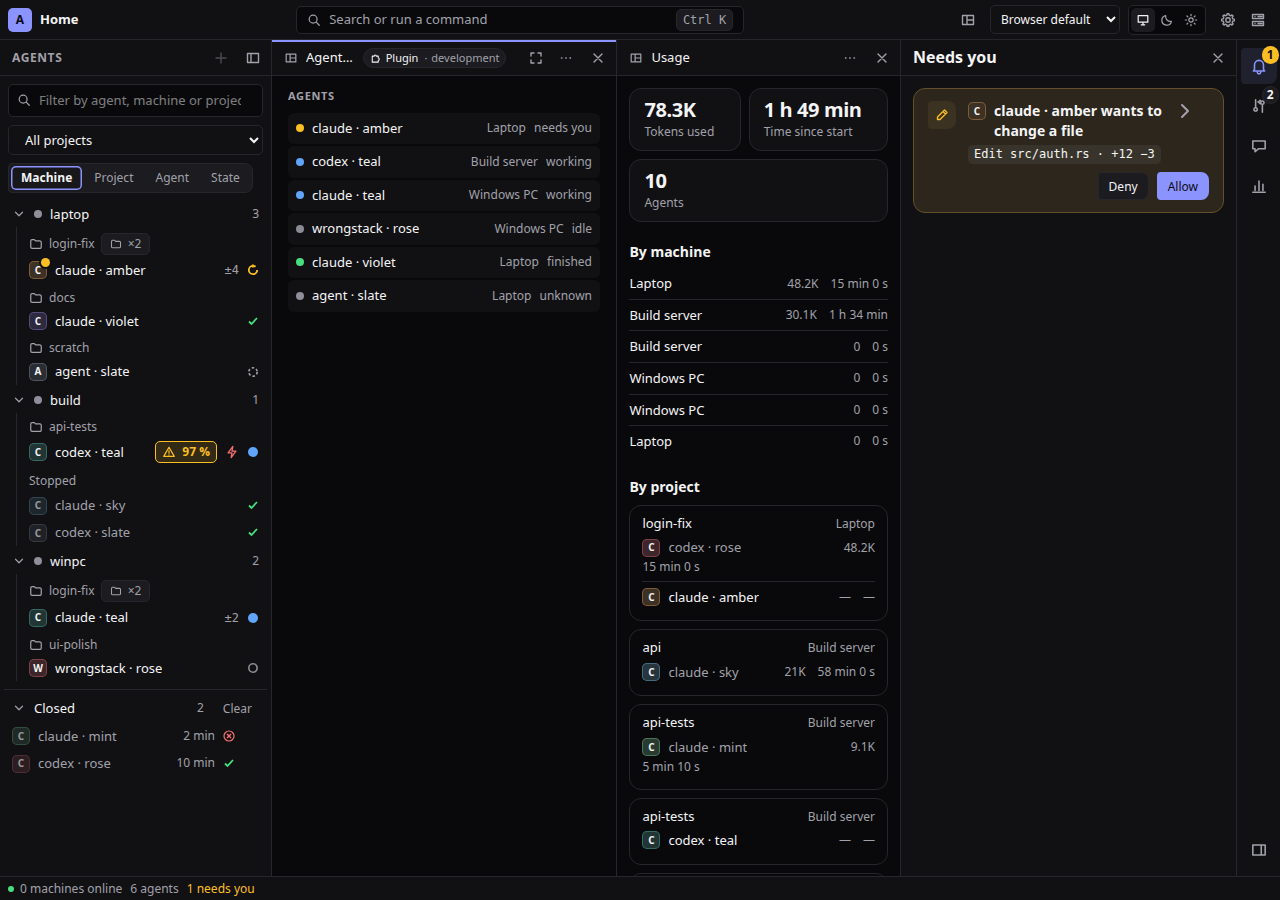
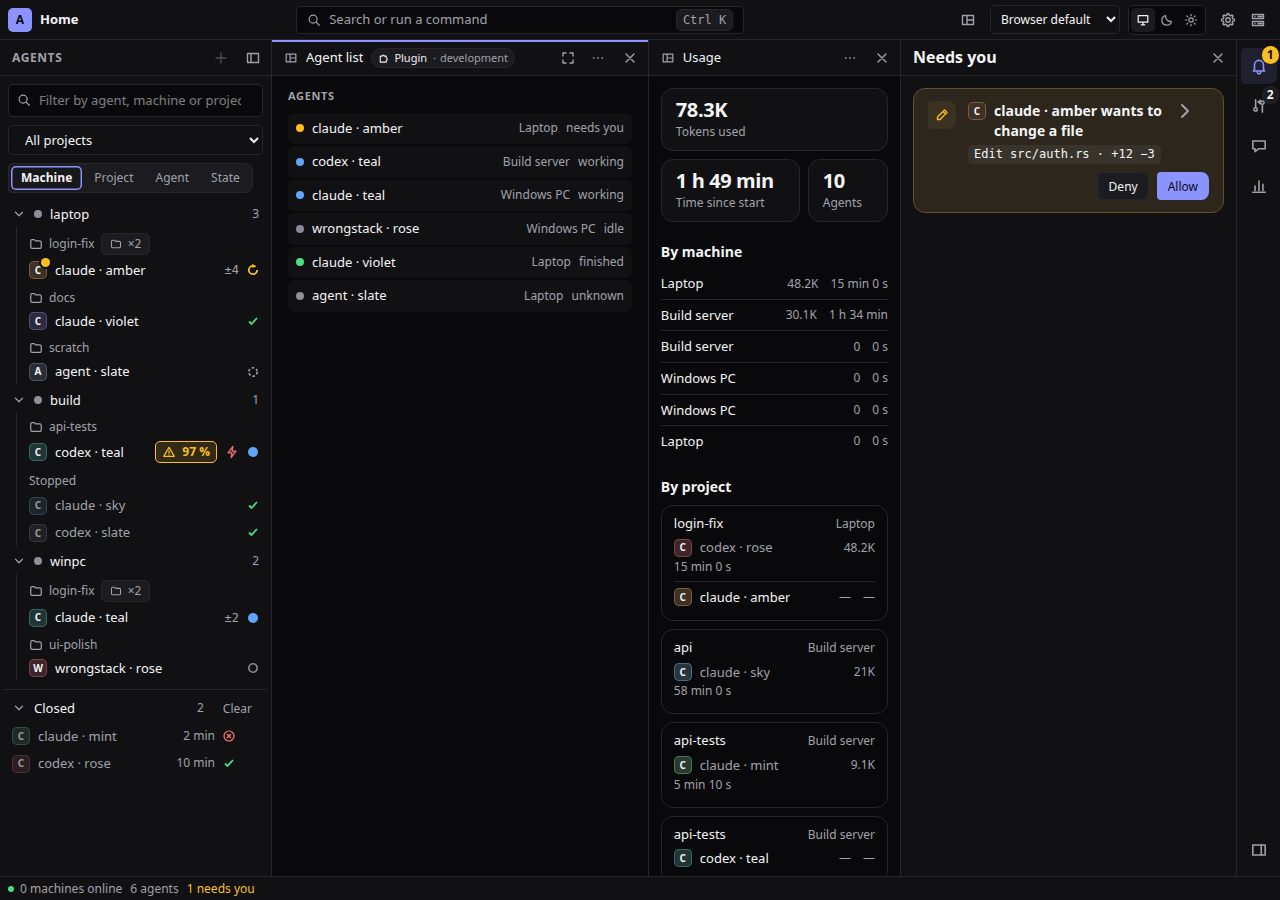
fix(web): probe a frame going to a blob page it made and the loader's Origin; restart a plugin frame when its pane's agent changes; the sample is 'Agent list' (review)

diff --git a/apps/web/src/plugins/registry.tsx b/apps/web/src/plugins/registry.tsx
@@ -34,7 +34,9 @@ export function pluginPanels(plugins: readonly LoadedPlugin[]): PanelDef[] {
             pane: ctx.pane, kind, ...(follows ? { follows } : {}), agent: ctx.agent, fleet: ctx.state.fleet, boards: ctx.state.boards, now: ctx.state.now,
             chatOf: ctx.sources.chatOf, loadDiff: ctx.sources.loadDiff,
           });
-          return <PluginFrame key={`${id}:${p.granted.join(',')}`} plugin={p.plugin} panel={decl} granted={p.granted} view={view} dev={p.dev} />;
+          // A new grant, or another bound agent (its conversation and changes are read from the agent the frame started with), starts
+          // the frame again.
+          return <PluginFrame key={`${id}:${p.granted.join(',')}:${ctx.agent?.id ?? ''}`} plugin={p.plugin} panel={decl} granted={p.granted} view={view} dev={p.dev} />;
         },
       });
     }

diff --git a/docs/security/threat-model.md b/docs/security/threat-model.md
@@ -94,7 +94,7 @@ phase exit.
 | T60 | ADR-0101 "Allow always for this session" on a structured agent's request: a hub that turns a person's single answer into a remembered one (or strips "always" to a single answer); a card whose words differ from what the agent will remember (the agent's label, the action, the detail, or which of several "always" options); an agent that offers "always" to widen itself; a plain Allow that the agent's adapter answers with its remembered option (an agent that offers no single answer, or an ACP bridge from before ADR-0101 kept across a node update); an always answer that outlives the agent's session | The scope is part of the signed decision: ONCE keeps `agora-approval-v1`, ALWAYS is signed over `agora-approval-always-v1`, which binds node, approval, agent, the hashes of action and detail, the agent's label and the exact option id as the node announced them; the node picks the bytes from the scope it received, so a flip in either direction fails the signature, and it checks the decision against the offer it stored (never anything the decision carries), then its `skip_permissions` policy as read at node start, for the agent's own launch (`forbid` refuses always, `confined_only` unless the agent's process was launched confined: one the holder runs never is, an unknown launch is refused; the node also leaves it out of the offer), then expiry and single use; every refusal before expiry spends nothing. An always answer is never a denial and never an answer to a node-made (`agent.`) request. The bridge captures the agent's options when it asks and selects exactly one: ONCE only `allow_once` (never `allow_always`), ALWAYS only the single `allow_always` (two or more are ambiguous and never offered), a denial `reject_once` or `cancelled` (never `reject_always`); an option of an unknown kind is never selected, and a request with nothing to allow raises no card (`adapter.permission_unanswerable`). An agent that offers only "always" is shown that, and a single Allow is refused (`approval.scope_unavailable`); under a refusing policy it gets no card (`approval.always_only_forbidden`). An ACP agent whose bridge did not declare `approval_scopes` is never offered "always", and under a refusing policy its Allow is refused (`approval.adapter_outdated`). The label is untrusted text, cleaned and cut at 120 characters. The node records `ApprovalResolved.scope` and `AgentAlwaysAllowed` only after the adapter delivered the answer to the agent (the bridge answers once its writer wrote it), `AgentAlwaysAllowed` only for the run of the agent's process it was delivered to, drops its records when the agent ends, is interrupted or starts a new process, and never replays an always answer (a resumed agent, a request rebuilt after a restart, ADR-0093, is asked again). **Residuals:** what "always" covers and how long the agent keeps it are the agent's (ACP leaves both to it): an agent that keeps the answer beyond its session (in its own settings, or through its own resume) does more than the button said; `[structured] allow_always = false` switches the offer off for a kind a real check finds doing that. Under `allow`, an ACP bridge kept across a node update until its agent restarts may still answer a single Allow with the agent's remembered option when the agent offers no single one (as before ADR-0101, unrecorded). A device that can sign for the owner can allow always (the same trust as any approval); T55 applies to the signing key as for every approval. |
 | T61 | A structured agent's chat transcript on the node's disk (ADR-0089, ADR-0104 C1) is read by another local user or by a confined agent, holds a secret the agent printed, is edited to plant entries, or fills the disk | The file is created `0600` in a `0700` folder (an owner-only ACL on Windows) through `agora-platform` (`ensure_private_dir`, `open_append_private`, a rotation through `write_private`), never through a link; the folder is inside the node's data folder, which every confined agent's profile protects (`node_private_paths`); the one write grant inside it is a registry agent's own runner folder (`<data>/runner/<agent id>.<random>`, #1150, T52), beside the transcripts and not above them. On Linux that protection is that no grant reaches the folder (Landlock only allows, T16): a confined agent's read of a transcript in a data folder outside every granted folder is refused (`sandboxed_agent`), and a node whose data folder lies inside a folder agents may reach refuses to start a confined agent (#1114). The values of the secrets the node holds (ADR-0084: its secret store, and the environment variables its policy passes to agents), of 8 bytes or more, are replaced by `<redacted>` before a line is written, by two mechanisms only: (a) whole values, raw and JSON-escaped, every occurrence, in every text and across the agent's words as one stream (prompts, queued prompts and notices between them do not break it; a carry of the last words written joins new ones, and while the agent is in a turn its newest words wait until more follow or the turn ends, so a kill loses those); (b) fragments at every edge: every part (4 bytes or more) of a value that touches or crosses it, found in linear time (its tables take about 27 bytes per byte of the values held, kept while the node runs; a value over 16 KiB gets none and is only replaced whole; the values are read again when the secrets folder or a file in it changes, and at every write while one of their times is under 2 s old); the edges are each cut the node makes (recorded by one helper, `agora_adapters::text`; a cut of the agent's words is an edge in their stream too, so the piece after a text cut at 16 KiB starts at one), each cut an adapter that declared `chat.cuts` reports on a `chat/append` item (ADR-0111: carried through the node's own cleaning, which a reported place never splits, and caps, and used exactly as the node's own, in the agent's words' stream too; at most 64 per item, an invalid entry ignored on its own), the bridge's `[redacted]` marks (also one a later cut went through), both ends of a notice's parameters and the place beside a `…` the bridge put where it cut, the end of a tool call's output and arguments while it runs, the end of words written before what follows them (a stop's flush, words said outside a turn, a turn's end, words dropped from the ring's overflow), and after a take-up or resume every boundary between the earlier node's words (with no file at all, the start of the next words). The bridge cleans and redacts a tool's output, and cleans arguments, plan steps and paths, before its own cuts, so the node never keeps their place; it declares `chat.cuts` and reports those places, the places of its halving of every long string in an item whose line would pass 4 MiB (`fit_line`, ADR-0111 build step 3) and where it cut a stderr tail. The full inventory of sites is in `crates/agora-node/src/transcript.rs`. After a take-up the earlier node's last words as written (redacted) become the carry, so no 4 bytes of a value stand across any edge, even when the bytes on each side are under 4 or meet there only because words between them were lost. Not covered: a value shorter than 8 bytes; a fragment shorter than 4 bytes; a part of a value that stands at an edge only by chance is replaced too; a value whose characters cleaning changes (`\r\n` written `\n`, line breaks and tabs as spaces in one-line fields) is not found; cuts made by an adapter that did not declare `chat.cuts` (#1123, ADR-0111: the node reads no reported cut from it) and cuts one that declared it does not report (the contract is the adapter's), and the stderr tail's home path written `~` (a value spanning it); JSON forms other than `serde_json`'s escaping in arguments; and a secret the node does not hold. The same replacement covers what the node sends live (ADR-0089 Amendment A, #1147): every entry and version a `ChatSubscribe` follower gets, and a new follower's snapshot, are redacted by the same functions with the same values before they are first sent, so no value passes through the hub; the agent's words are one stream there too (a live carry joins them), and a piece whose end is a part of a value (4 bytes or more) waits until the next words show it is not one, any other entry of the agent, the turn's end, Start again or 300 ms, or the ring's bound, then goes with that part replaced as at an edge; a snapshot shows the words as sent and leaves out those still waiting. Live residuals besides the file's: the live view and the file may differ where a part of a value stands at an edge by chance; a value's first 3 bytes or fewer can be sent before the next words show it goes on (the rest is replaced); text sent before a value was added to the store stays as sent on streams already open (a later snapshot redacts the words again with it), and a value added is replaced from the node's next read of its values (the writer's or the node's tick, at most a second); a value over 16 KiB can show in part when its words are sent without what follows. The hub events the node records that carry the agent's own words have the same values replaced (audits of #1157): on `ApprovalRequested`, before the request is queued (so the queue, the event, the window's card and the signature over it hold the same words), an adapter's `action`, `detail` and `always_label`, a helper start's `prompt` and `folder` in its detail, and a skip card's `option_name` and `value_name` in its detail; a mesh message's body (`MessagePosted`), a task's title (`TaskChanged`), a handoff's summary and refs (`HandoffCreated`), and the names, descriptions and hints of the agent's modes, options and commands (`AgentSessionOptions`, `AgentSessionConfig`, `AgentCommands`). Ids the window answers back (mode, model, option, choice and always-option ids, command names, session ids, `model` in usage) are kept. Every other event the node records carries the node's own words, ids, numbers, paths or git names, not the agent's: the `folder` of `AgentStartRefused` and `AgentInterrupted` and a skip card's `folder` are paths and are not redacted. Not covered: the body of a mesh message an agent sends to an agent on another machine, which the hub relays as written (`MeshPost`, the recipient's input). A `call_id` is text the agent chose and is written as it is (never redacted, so a call updated after a restart finds its entry). The file is as sensitive as the terminal. Seeding holds what the file says to the live path's shapes and bounds (sizes, cleaning, codes, ids below 2^52); its person's prompts and the node's notices are taken as the node's own record, as the ledger and the policy file are, since only the node's user can write it. Nothing of it goes to the hub or the holder. Bounded at 32 MiB per agent (policy `chat.history_max_bytes` only lowers it, 0 for none) and 2 GiB per node, kept 30 days after its agent ended (`chat.history_days` only lowers it), never removed while the agent runs or is offered for Resume, removed by `agora history purge`. A write that fails (a full disk) never touches the agent: the entries stay in memory and the conversation says `chat.history_not_saved` once. A forget at the hub (ADR-0108) reaches a node that offers `agent.forget.local`: the node removes both files and the Resume offer through its transcript writer (after any batch it took, so none brings the file back), and refuses (`agent.running`, nothing touched) while the agent runs there, in the holder, waits for a restart or is being resumed. **Residual:** the forget is not signed, so a compromised hub can make a node delete the saved conversation and the Resume offer of any of its agents that does not run, which it could not before. Bounded to that (never a running agent, never the agent tool's own session, the scrollback or the worktree); the file is the node's copy of what the window already showed, retention would remove it anyway, and a node whose policy lists `agent.forget` needs a live grant (ADR-0041). The hub keeps a pending forget on a transient answer (`node.offline`, `node.timeout`, `internal`) and sends it again after the next Welcome, at most five times (ADR-0108 amendment A); a refusal drops it (the person forgets the agent again to retry); an older node leaves the file to its retention |
 | T62 | The node's durable handoff inbox (ADR-0109, `<data>/handoffs/`), filled by the hub: a compromised or faulty hub uses it to put text in front of an agent, to fill the node's disk, or to keep records without end; or a file there is damaged or planted | What it stores: for each accepted delivery, one `0600` file written atomically through `write_private` in a private folder inside the node's data folder (which every confined agent's profile protects): the summary, refs, task id, sender ids, deadline, delivery and run ids, and the inbox number. The summary and refs are untrusted mesh data, shown to the addressed agent as a message from another machine (T4); they never carry an approval or a scope. Only the hub link takes a delivery, after negotiation; the local socket refuses it. Grant stance: the delivery passes the node's `signed_commands` check like a routed `mesh.post` (ADR-0041, ADR-0020): a policy that lists `mesh.task_handoff.v1` or `mesh.*` needs a live grant (only a `node` grant covers it) and refuses without one before anything is stored; `mesh.remote` off refuses it too. Only an identical retry of a delivery already stored is answered before that check, with its stored receipt (ADR-0109 decisions 3 and 4): it stores, prunes and publishes nothing, so a hub without a grant learns only that its own earlier delivery was accepted. Only the agent's current run in the named project takes it (`mesh.recipient_unknown` otherwise), so a new process under the same agent id never sees an entry for the earlier one. Fill limits: at most 1,024 records and 32 MiB per node, and a full store refuses (`node.resource_limit`) without a receipt; summary and refs keep the mesh limits (16 KiB, 20 refs), the task and sender ids at most 256 bytes; one delivery is written at a time per link. The mesh rate is counted per sender, but the hub names the sender (`sender_node`, `sender_agent_id`), so it bounds an honest hub's traffic, not a compromised one's; a full store refuses before it takes a rate slot or an inbox number. A deadline more than 25 hours ahead is refused, and an ended run's records are reclaimed at their deadline (never later than 25 hours after acceptance) when the next delivery arrives. At start a file that is not a record the node could have written (format, name, or an inbox number at or past the id clamp, so a restored record can never exhaust or overflow the node's message ids), or one past the limits, is renamed `.rejected` (kept, not counted) and the rest load, so one bad file does not turn the inbox off; a file that cannot be read at that moment is left in place. **Residual:** without such a policy line, a hub can fill a running agent's durable inbox up to the limits with text it chose, as it can already send that agent mesh messages; a running agent keeps its entries until it ends, so a full store refuses later deliveries until then. The record write and its sync, and the removal of reclaimed records, run while the node's mesh lock is held. The supervisor's run hook takes that lock too (on a start, stop, restart, resume, exit or take-up), so a slow disk delays the node's other mesh calls and its supervision of agents for that time |
-| T63 | A community plugin in the web window (ADR-0114, `docs/ux/plugins.md`): a bad or hijacked plugin signs approvals, grants or endorsements with the window's key, answers a request, prompts an agent or types into a terminal; reads the window's storage, cookies or hub connection; carries what it sees to an outside server; poses as the window (a "needs you" card, a sign-in screen) or covers it; or is unpacked into something it did not list | **What a plugin may see:** only the read-only, granted, already-redacted views of rung 1 (`agents.read`, `usage.read`, `tasks.read`, `changes.read`, `chat.read`, `theme.read`, `pane.context`), each from a view the bridge builds itself (`plugins/projection.ts`): never the built-in panels' context, state or actions, never a request or an answer to one, a terminal or its preview, a prompt, a start or a stop; a capability the person did not allow answers `not-granted`, and a version that asks for more is held until the person looks again. **Isolation:** each plugin panel is an `<iframe sandbox="allow-scripts">` (never `allow-same-origin`, no forms, popups, modals, top navigation or downloads), so its origin is opaque and it reaches none of the window's storage, its IndexedDB signing key, its cookies or its connection to the hub; its page is a blob whose own policy is first (`connect-src 'none'`, `frame-src 'none'`, `form-action 'none'`, `default-src 'none'`), and as a blob page it also keeps the window's policy, whose `frame-src blob:` stops it navigating itself anywhere but a blob; the window takes a message only from its own frame's window (`event.source`), of a known type with exactly its fields, at most 4 KiB and 20 a second, and counts the rest; there are no write messages at all. A package is at most 2 MiB, unpacked in memory against its manifest's SHA-256 list: a path, a link, an unlisted or missing file or a wrong hash refuses the whole package (the Zed unpacking CVEs); an unknown manifest field or capability refuses it too. **Posing as the window:** the pane bar the window draws names the plugin as plain text (never a Fluent key) beside the "Plugin" marker, which is in the theme floor (ADR-0113) and outside the frame; a plugin panel is `global` or `tool` only, never `lone` or `streams`, and an id is registered once, so it cannot replace a built-in; the approvals area, the "needs you" list, the attention dialog and sign-in never host plugin content. **Safe mode:** `?safe` and Ctrl+Alt+Shift+S (heard by the window first, in the capture phase) open the window with no plugins and the built-in theme. In build step 2 a plugin is loaded only from a local file into one browser, marked "development". **Residuals:** a plugin can show misleading content inside its own pane; DNS prefetch hints are not covered by every browser's page policy; the safe-mode key does not reach the window while a plugin's frame has the focus (the address works always); a compromised hub can already serve any code to the window (ADR-0097), and plugins do not change that; once the catalog exists (build step 4) its signing key is a new key to protect. Pending ADR-0114 Amendment A (Proposed): a blob frame keeps the window's policy, so the window's `script-src` needs `blob:` for any script to run in the frame; that also lets a blob script run in the window itself, which only code already running in the window could make |
+| T63 | A community plugin in the web window (ADR-0114, `docs/ux/plugins.md`): a bad or hijacked plugin signs approvals, grants or endorsements with the window's key, answers a request, prompts an agent or types into a terminal; reads the window's storage, cookies or hub connection; carries what it sees to an outside server; poses as the window (a "needs you" card, a sign-in screen) or covers it; or is unpacked into something it did not list | **What a plugin may see:** only the read-only, granted, already-redacted views of rung 1 (`agents.read`, `usage.read`, `tasks.read`, `changes.read`, `chat.read`, `theme.read`, `pane.context`), each from a view the bridge builds itself (`plugins/projection.ts`): never the built-in panels' context, state or actions, never a request or an answer to one, a terminal or its preview, a prompt, a start or a stop; a capability the person did not allow answers `not-granted`, and a version that asks for more is held until the person looks again. **Isolation:** each plugin panel is an `<iframe sandbox="allow-scripts">` (never `allow-same-origin`, no forms, popups, modals, top navigation or downloads), so its origin is opaque and it reaches none of the window's storage, its IndexedDB signing key, its cookies or its connection to the hub; its page is a blob whose own policy is first (`connect-src 'none'`, `frame-src 'none'`, `form-action 'none'`, `default-src 'none'`), and as a blob page it also keeps the window's policy, whose `frame-src blob:` stops it navigating itself anywhere but a blob (and a blob page it makes keeps its policies); the window takes a message only from its own frame's window (`event.source`), of a known type with exactly its fields, at most 4 KiB and 20 a second, and counts the rest; there are no write messages at all. A package is at most 2 MiB, unpacked in memory against its manifest's SHA-256 list: a path, a link, an unlisted or missing file or a wrong hash refuses the whole package (the Zed unpacking CVEs); an unknown manifest field or capability refuses it too. **Posing as the window:** the pane bar the window draws names the plugin as plain text (never a Fluent key) beside the "Plugin" marker, which is in the theme floor (ADR-0113) and outside the frame; a plugin panel is `global` or `tool` only, never `lone` or `streams`, and an id is registered once, so it cannot replace a built-in; the approvals area, the "needs you" list, the attention dialog and sign-in never host plugin content. **Safe mode:** `?safe` and Ctrl+Alt+Shift+S (heard by the window first, in the capture phase) open the window with no plugins and the built-in theme. In build step 2 a plugin is loaded only from a local file into one browser, marked "development". **Residuals:** a plugin can show misleading content inside its own pane; DNS prefetch hints are not covered by every browser's page policy; the safe-mode key does not reach the window while a plugin's frame has the focus (the address works always); a compromised hub can already serve any code to the window (ADR-0097), and plugins do not change that; once the catalog exists (build step 4) its signing key is a new key to protect. Pending ADR-0114 Amendment A (Proposed): a blob frame keeps the window's policy, so the window's `script-src` needs `blob:` for any script to run in the frame; that also lets a blob script run in the window itself, which only code already running in the window could make |
 | T64 | The hub-wide view for agents (ADR-0112, `machines_list` and `agents_list {scope: "hub"}`): an agent learns the names, kinds, states and folders of agents in other projects and on other machines, and every machine's name, OS, version and when it was last seen; on a team hub (ADR-0049) a member's agent would learn of projects that member has no grant for, and the folder paths can name customers or people | The hub answers `BoardCall{tool: "fleet_status"}` only while it has no person in its `users` table besides the owner (solo mode; any person added, whatever the role, one this build cannot read included, makes it a team hub) or when the owner turned it on on the hub's machine (`agora hub fleet on`, the hub setting `fleet_status`, off by default, audited, read on every call); otherwise it refuses with `board.not_allowed` and a store it cannot read refuses too. The answer carries only facts the hub already projects from node events (machine id, online, OS, version, running agents, last seen; agent id, kind, machine, project, state word, folder, parent): never a task, a label, `doing`, a message body, a file name or a screen; text is put on one line without control or invisible characters (bidi marks included) and cut (ids 160 bytes, folders 512) on the hub, the whole answer is cut at 384 KiB of rows (`partial: true`) so it always fits a board result, and the node cleans it again, and it is information for the agent, not instructions (T4). Machines the owner forgot and their agents are left out, and only running agents on online machines are listed; at most 64 machines and 200 agents (`partial: true` past either). The calling node is the one the connection's certificate names; the view is read only, so nothing an agent does through it changes another machine. Node policy `mesh.fleet = false` (default `true`; anything but exactly `true` is `false`) keeps the node from offering the capability `mesh.fleet_status.v1`, listing `machines_list` and asking the hub, and the hub cannot change the file; `mesh.remote = false` does the same. That policy also hides the machine (ADR-0112 Amendment A): the hub lists only machines whose latest link agreed on `mesh.fleet_status.v1`, and only their agents, so a machine with `mesh.fleet = false` (or `mesh.remote = false`), and a node from before ADR-0112, are left out of every agent's hub-wide view with their agents and folders, except in projects such a machine shares with the caller (ADR-0039): there `workspace_status` and the default `agents_list`, and so `scope: "hub"`, still show its agents and folders as for any shared project, and `mesh.remote = false` does not hide those either (the hub lists a shared project's agents from its own records, whatever the node's policy); the hub decides an offline machine by its last link, kept in memory (after a hub restart a machine is left out until it connects again). **Residual:** on a solo hub, or once the owner turns it on, every agent of the hub sees the folder paths and agent kinds of every other project on the machines that agreed; that is the owner's own data on the owner's own machines (the maintainer's decision in ADR-0112), and a machine leaves the view with `mesh.fleet = false`. A compromised hub could still list a machine that did not agree (it knows every machine); the policy only binds an honest hub and the machine's own agents. `agora hub fleet` says the stored switch even on a solo hub, and `agora hub user add` warns while it is on, so the first person added is not shown everything unnoticed. There is no rate limit on these read tools, as for `workspace_status`, and each call holds the hub's lock for O(machines + agents) while the answer is built. A compromised hub can put any names it likes in the answer, as it can in `workspace_status`. |
 
 ### Screen-password work (T17)

diff --git a/docs/ux/plugins.md b/docs/ux/plugins.md
@@ -42,7 +42,7 @@ folders, links or extra fields to get wrong).
 ```json
 {
   "id": "sample-agents",
-  "name": "Agents at a glance",
+  "name": "Agent list",
   "version": "0.1.0",
   "author": "The Agora authors",
   "licence": "Apache-2.0",
@@ -99,7 +99,7 @@ are given as `data:` addresses through `agora.file(name)`.
 
 **Two policies at once.** A blob page keeps the window's policy too, so whatever runs in the frame must pass both. The window's
 `connect-src` allows `ws:`/`wss:`; the frame's `connect-src 'none'` takes it away. The window's `frame-src blob:` is what stops the frame
-navigating itself to any address outside a blob. In step 2, with the window's `img-src 'self' data:` and no `font-src`, a plugin's
+navigating itself to any address outside a blob, and a blob page the frame makes and goes to keeps the frame's policies (its maker's). In step 2, with the window's `img-src 'self' data:` and no `font-src`, a plugin's
 images work as `data:` addresses and its fonts do not load (it draws in the system's fonts).
 
 ## Messages
@@ -185,7 +185,8 @@ runs.
 - Unit (`apps/web/src/plugins/*.test.ts*`): the package checks, the message filter by source, type, size and rate, grants, the store,
   the projection (no approvals, terminal data or actions), the registry's host-set facts, the marker and safe mode.
 - Real browser (`scripts/e2e-plugin-sandbox.mjs`, headless Chromium under the hub's page policy read from `web.rs`): every probe of
-  ADR-0114's Verification list fails from inside a frame, judged by the servers' request logs; a granted read answers and one not granted
-  says so; the header cannot be covered; `?safe` and the key load no plugin and the built-in theme; a package loads through the dialog.
+  ADR-0114's Verification list fails from inside a frame, and so does the frame going to a blob page it made, judged by the servers'
+  request logs; the loader is asked for without an `Origin` header (the hub's proxy rule refuses `Origin: null`); a granted read answers
+  and one not granted says so; the header cannot be covered; `?safe` and the key load no plugin and the built-in theme; a package loads through the dialog.
   `--amendment-a` runs the same under the policy Amendment A proposes.
 - Visual: `plugin-desktop-dark` and `plugin-desktop-light` (`scripts/visual-regression.mjs`).

diff --git a/changelog.d/plugin-sandbox.md b/changelog.d/plugin-sandbox.md
@@ -1,4 +1,3 @@
 - A developer can load a plugin package from a local file into this browser and show its panel in a pane: it runs in a sandboxed frame
   with no network, sees only what the person allowed on its install screen, and its pane says "Plugin · development". `?safe` in the
-  address, or Ctrl+Alt+Shift+S, opens the window with no plugins and the built-in theme. Under the hub, plugin frames run once ADR-0114
-  Amendment A is accepted (ADR-0114).
+  address, or Ctrl+Alt+Shift+S, opens the window with no plugins and the built-in theme (ADR-0114).
